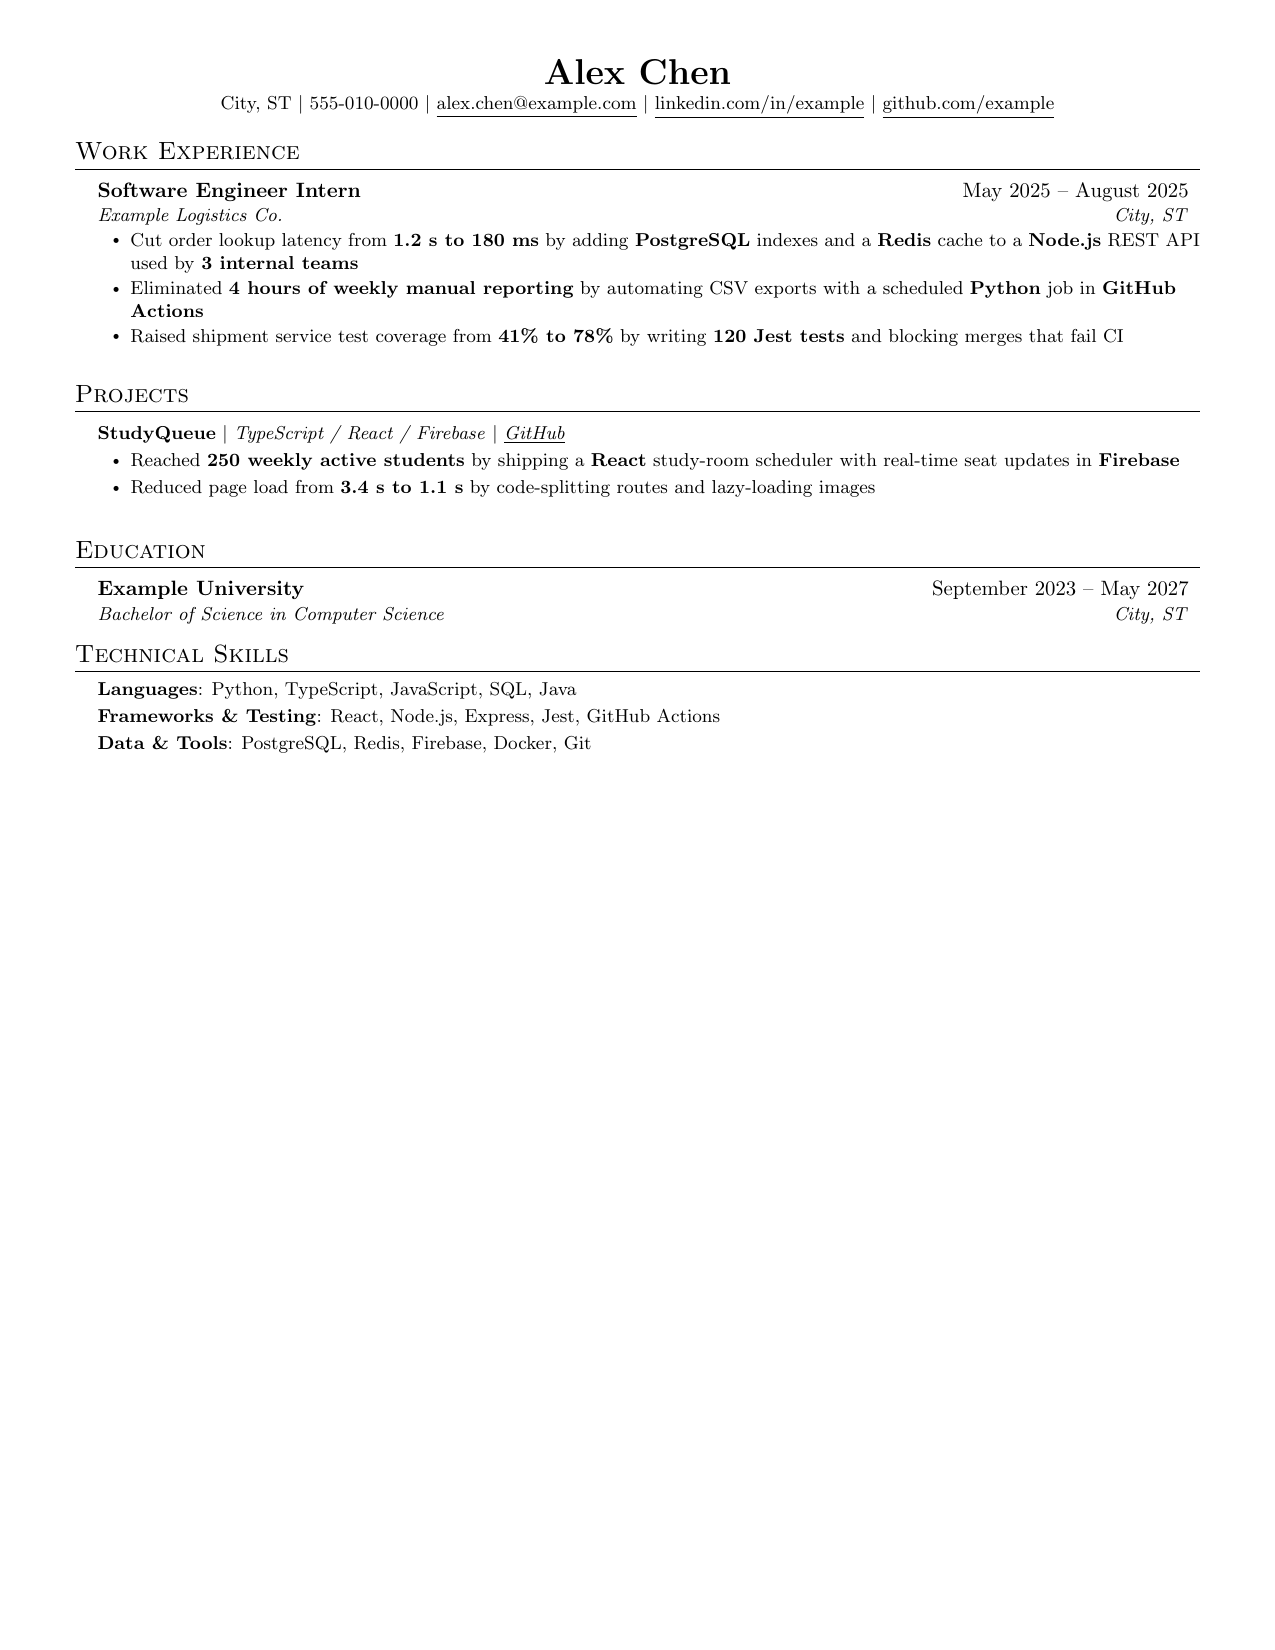
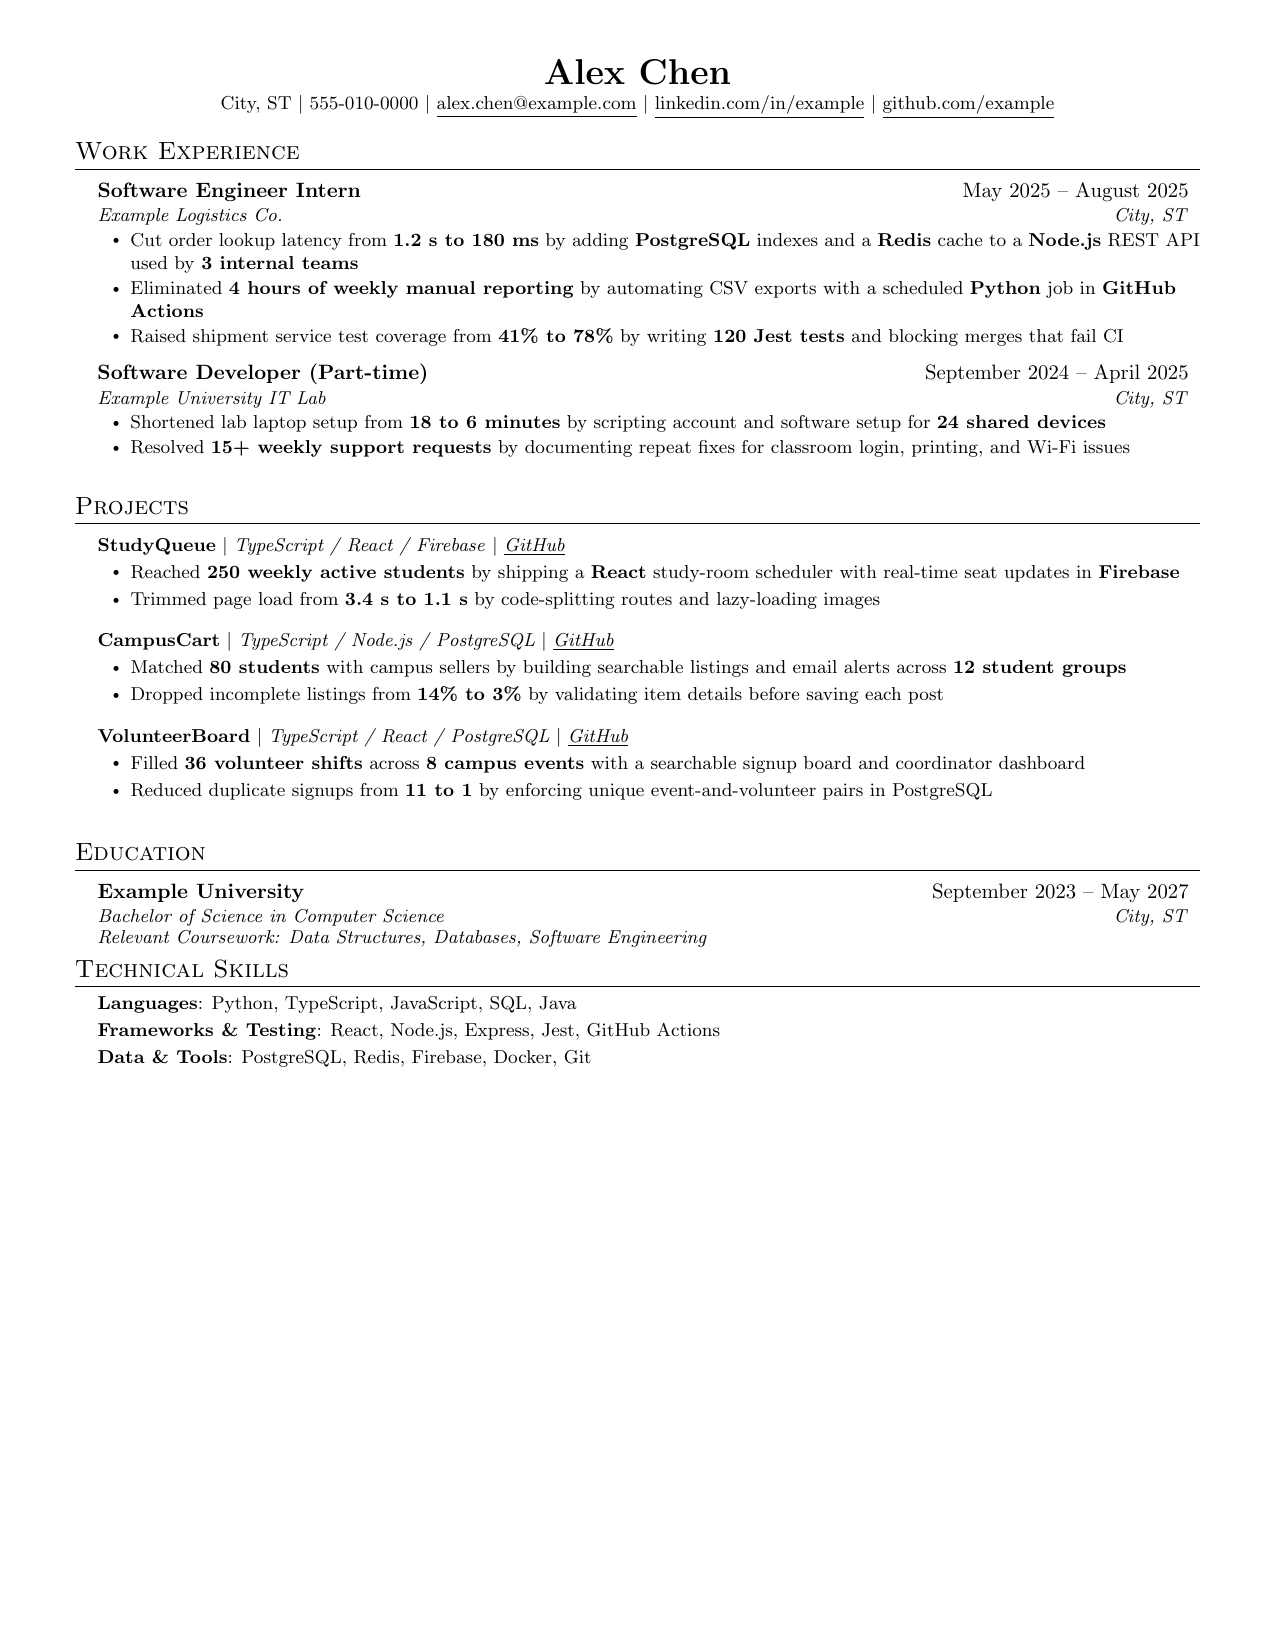
docs: improve README visual previews
Fix the comparison headline and enlarge labels in both SVG graphics so the workflow remains legible at GitHub column width.

Expand the explicitly fictional sample resume, rebuild its preview from the LaTeX source, and display it at full README width. Keep the sample at one US Letter page with zero checker warnings.

diff --git a/template/resume.tex b/template/resume.tex
@@ -133,6 +133,14 @@
         \resumeItem{Raised shipment service test coverage from \textbf{41\% to 78\%} by writing \textbf{120 Jest tests} and blocking merges that fail CI}
       \resumeItemListEnd
 
+\resumeSubheading
+      {Software Developer (Part-time)}{September 2024 -- April 2025}
+      {Example University IT Lab}{City, ST}
+      \resumeItemListStart
+        \resumeItem{Shortened lab laptop setup from \textbf{18 to 6 minutes} by scripting account and software setup for \textbf{24 shared devices}}
+        \resumeItem{Resolved \textbf{15+ weekly support requests} by documenting repeat fixes for classroom login, printing, and Wi-Fi issues}
+      \resumeItemListEnd
+
 \resumeSubHeadingListEnd
 
 %-----------PROJECTS-----------
@@ -142,7 +150,19 @@
       {\textbf{StudyQueue} $|$ \emph{TypeScript / React / Firebase} $|$ \href{https://github.com/example/studyqueue}{\emph{\underline{GitHub}}}}{}
       \resumeProjectItemListStart
         \resumeItem{Reached \textbf{250 weekly active students} by shipping a \textbf{React} study-room scheduler with real-time seat updates in \textbf{Firebase}}
-        \resumeItem{Reduced page load from \textbf{3.4 s to 1.1 s} by code-splitting routes and lazy-loading images}
+        \resumeItem{Trimmed page load from \textbf{3.4 s to 1.1 s} by code-splitting routes and lazy-loading images}
+      \resumeProjectItemListEnd
+    \resumeProjectHeading
+      {\textbf{CampusCart} $|$ \emph{TypeScript / Node.js / PostgreSQL} $|$ \href{https://github.com/example/campuscart}{\emph{\underline{GitHub}}}}{}
+      \resumeProjectItemListStart
+        \resumeItem{Matched \textbf{80 students} with campus sellers by building searchable listings and email alerts across \textbf{12 student groups}}
+        \resumeItem{Dropped incomplete listings from \textbf{14\% to 3\%} by validating item details before saving each post}
+      \resumeProjectItemListEnd
+    \resumeProjectHeading
+      {\textbf{VolunteerBoard} $|$ \emph{TypeScript / React / PostgreSQL} $|$ \href{https://github.com/example/volunteerboard}{\emph{\underline{GitHub}}}}{}
+      \resumeProjectItemListStart
+        \resumeItem{Filled \textbf{36 volunteer shifts} across \textbf{8 campus events} with a searchable signup board and coordinator dashboard}
+        \resumeItem{Reduced duplicate signups from \textbf{11 to 1} by enforcing unique event-and-volunteer pairs in PostgreSQL}
       \resumeProjectItemListEnd
 \resumeSubHeadingListEnd
 
@@ -152,6 +172,8 @@
     \resumeSubheading
       {Example University}{September 2023 -- May 2027}
       {Bachelor of Science in Computer Science}{City, ST}
+    \resumeSubSubheading
+      {Relevant Coursework: Data Structures, Databases, Software Engineering}{}
   \resumeSubHeadingListEnd
 
 %-----------SKILLS-----------

diff --git a/README.md b/README.md
@@ -46,7 +46,7 @@ gives the tailoring process a source of truth and a quality gate.
 </p>
 
 <div align="center">
-<img src="docs/sample-preview.png" alt="Sample tailored resume output" width="620">
+<img src="docs/sample-preview.png" alt="Full-page fictional resume sample showing two experience entries, three projects, education, and technical skills" width="100%">
 
 <sub>The fictional sample this repo ships with — rendered from <code>template/resume.tex</code>, checked at 0 FAIL / 0 WARN</sub>
 </div>
